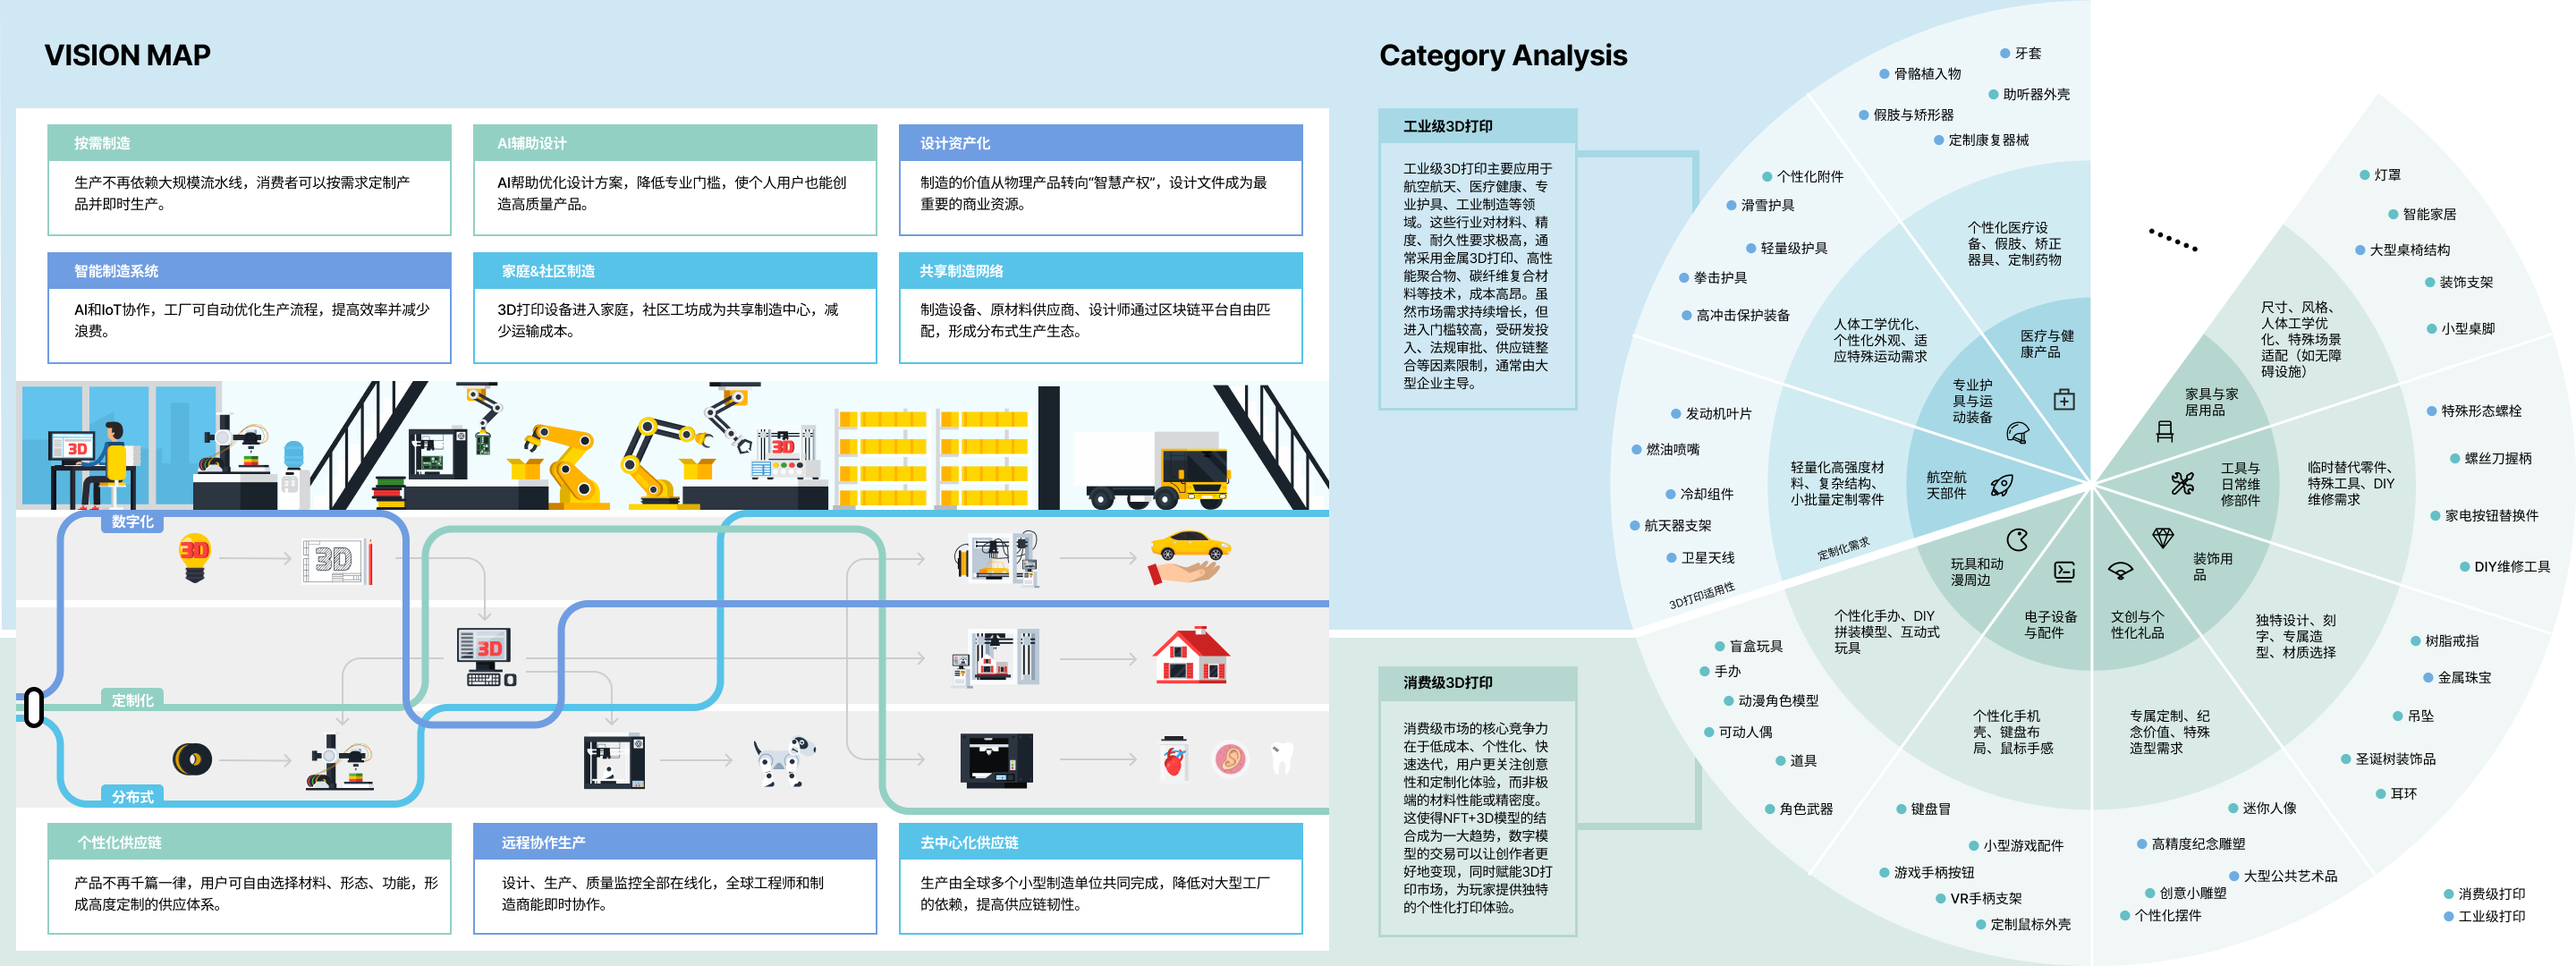
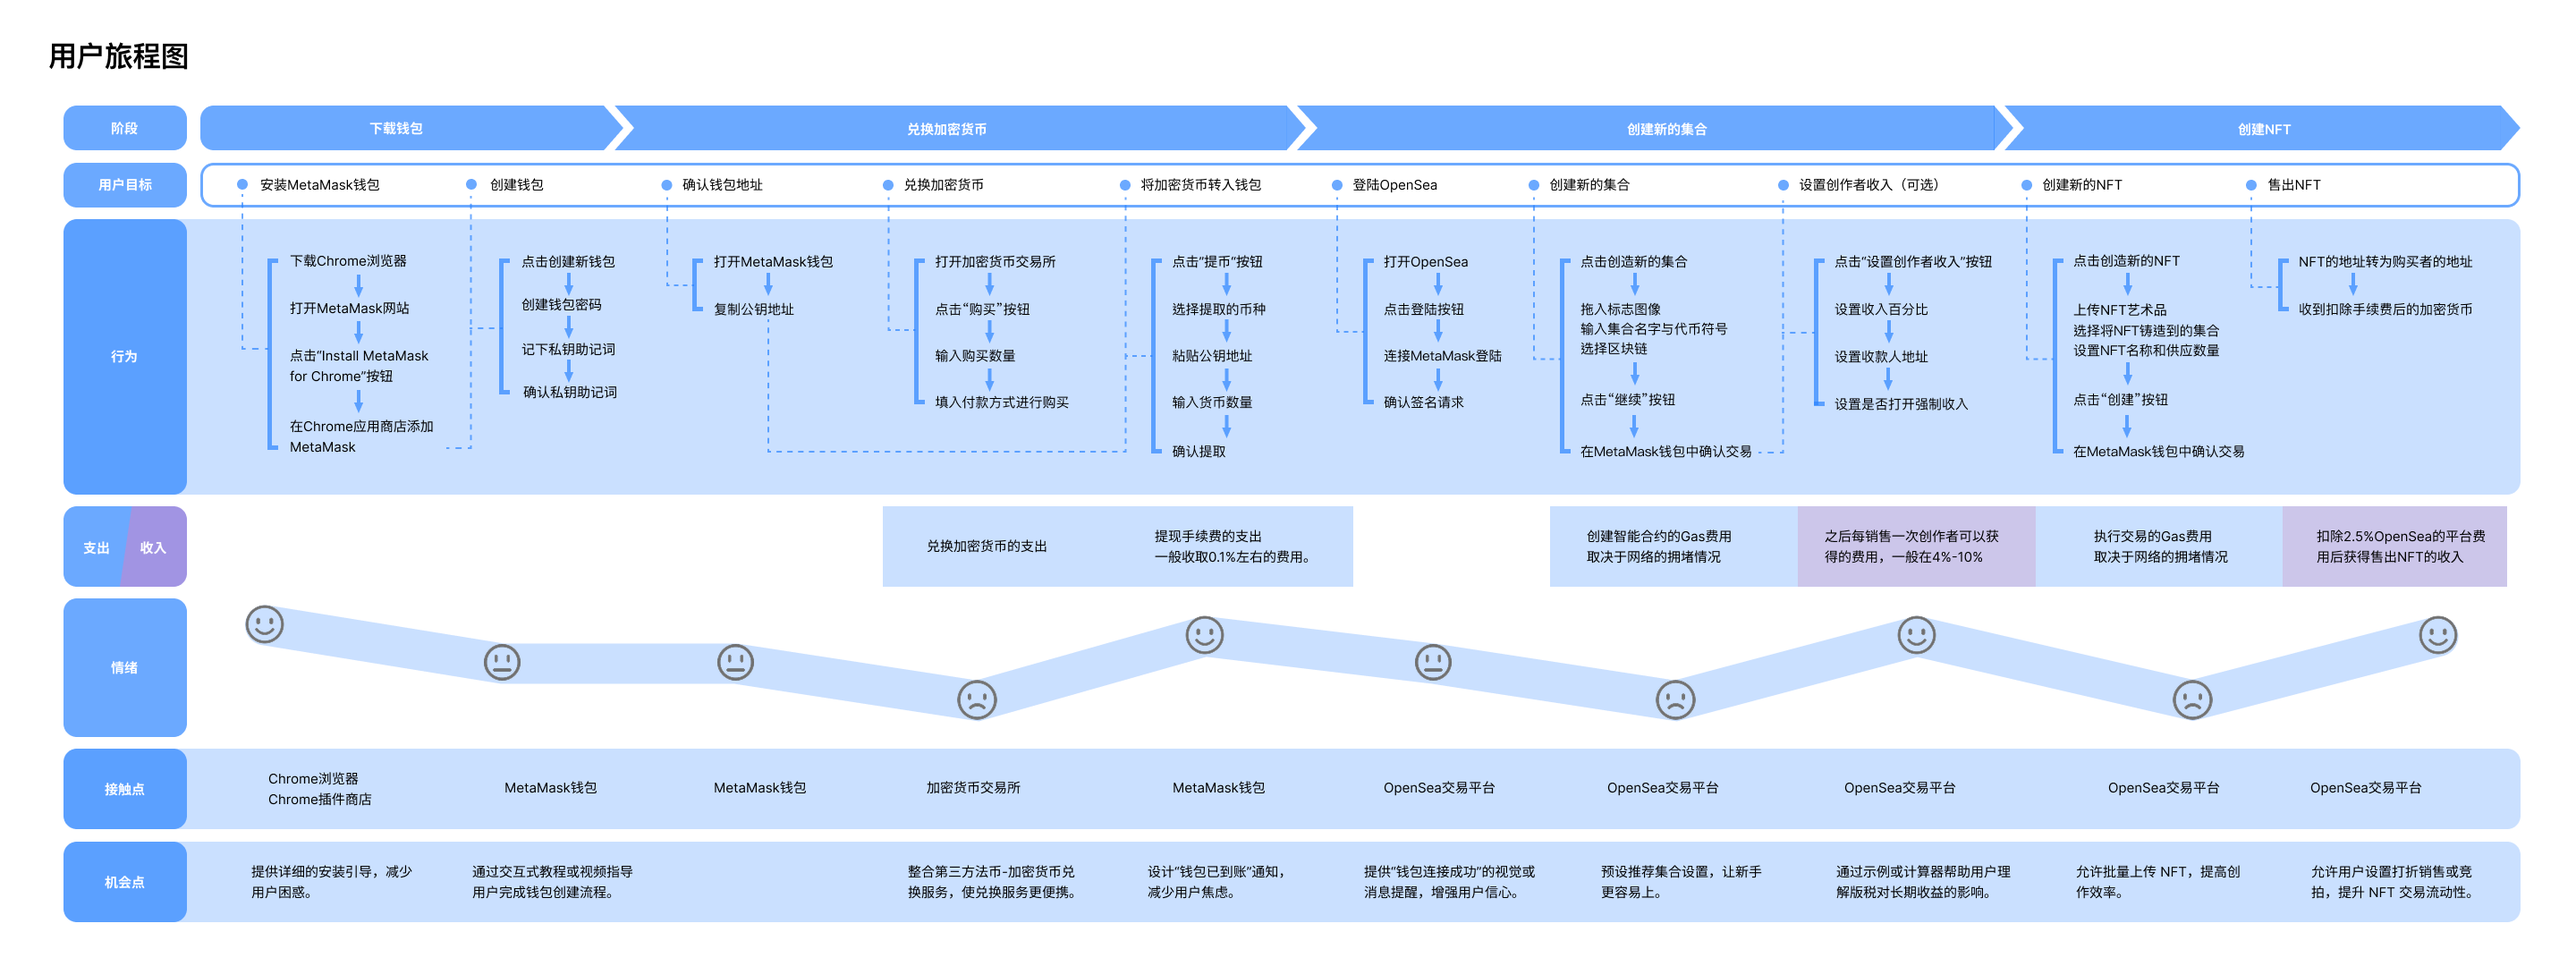
project8 update

diff --git a/project8.html b/project8.html
@@ -81,9 +81,71 @@
         </a>
       </div>
     </section>
-    <section id="gallery" class="gallery section" style="margin: 0px; padding: 0px 0px 50px;">
+    <section id="gallery" class="gallery section" style="margin: 0px; padding: 0px 0px;">
       <div class="container">
-        <img src="files/project8/Design Timeline.webp"></img>
+        <div class="section-header" style="padding-bottom: 0px;">
+          <h3 class="eidtContent" style="padding-bottom: 50px;">Design Process</h3>
+        </div>
+      </div>
+    </section>
+    <section id="gallery" class="gallery section" style="margin: 0px; padding: 0px 0px 50px;">
+      <div class="project8_container">
+        <div class="box">
+          <h3>Business Model Design</h3>
+          <ul>
+            <li>Context Map</li>
+            <li>BMC</li>
+            <li>Value Proposition</li>
+          </ul>
+        </div>
+        <div class="arrow">→</div>
+        <div class="box">
+          <h3>Service Design</h3>
+          <ul>
+            <li>Blueprint</li>
+            <li>Ecosystem Map</li>
+            <li>Offering Map</li>
+          </ul>
+        </div>
+        <div class="arrow">→</div>
+        <div class="box">
+          <h3>Product Design</h3>
+          <ul>
+            <li>Design Opportunity</li>
+            <li>Function</li>
+            <li>Prototyping</li>
+          </ul>
+        </div>
+      </div>
+    </section>
+    <section id="gallery" class="gallery section" style="margin: 0px; padding: 0px 0px;">
+      <div class="container">
+        <div class="section-header" style="padding-bottom: 0px;">
+          <h3 class="eidtContent" style="padding-bottom: 0px;">Product Design Preview</h3>
+        </div>
+      </div>
+    </section>
+    <section class="video-section" style="padding: 50px 0px; margin-top: 0px;">
+      <div class="container"> 
+        <div class="row">
+            <div id="content24" data-section="content-24" class="data-section"> 
+              <div class="col-md-6">
+                <div class="embed-responsive embed-responsive-16by9">
+                  <a data-fancybox="gallery" data-src="files/project8/无标题2.png" data-caption="">
+                    <img src="files/project8/无标题2.png" class="image-zoom" style="width: 100%;"></img>
+                  </a>
+                </div>
+              </div>
+            </div>
+            <div class="col-md-6">
+              <div class="embed-responsive embed-responsive-16by9">
+                <a data-fancybox="gallery" data-src="files/project8/无标题5.png" data-caption="">
+                  <img src="files/project8/无标题5.png" class="image-zoom" style="width: 100%;"></img>
+                </a>
+              </div>
+            </div> 
+          </div>
+        </div>
       </div>
     </section>
     <section id="gallery" class="gallery section" style="margin: 0px; padding: 0px 0px 50px;">
@@ -99,6 +161,16 @@
         <div>
           <a data-fancybox="gallery" data-src="files/project8/project8_2.png" data-caption="">
             <img src="files/project8/project8_2.png" class="image-zoom"></img>
+          </a>
+        </div>
+        <div>
+          <a data-fancybox="gallery" data-src="files/project8/project8_3.png" data-caption="">
+            <img src="files/project8/project8_3.png" class="image-zoom"></img>
+          </a>
+        </div>
+        <div>
+          <a data-fancybox="gallery" data-src="files/project8/project8_4.png" data-caption="">
+            <img src="files/project8/project8_4.png" class="image-zoom"></img>
           </a>
         </div>
         <div id="gitalk-container"></div>
